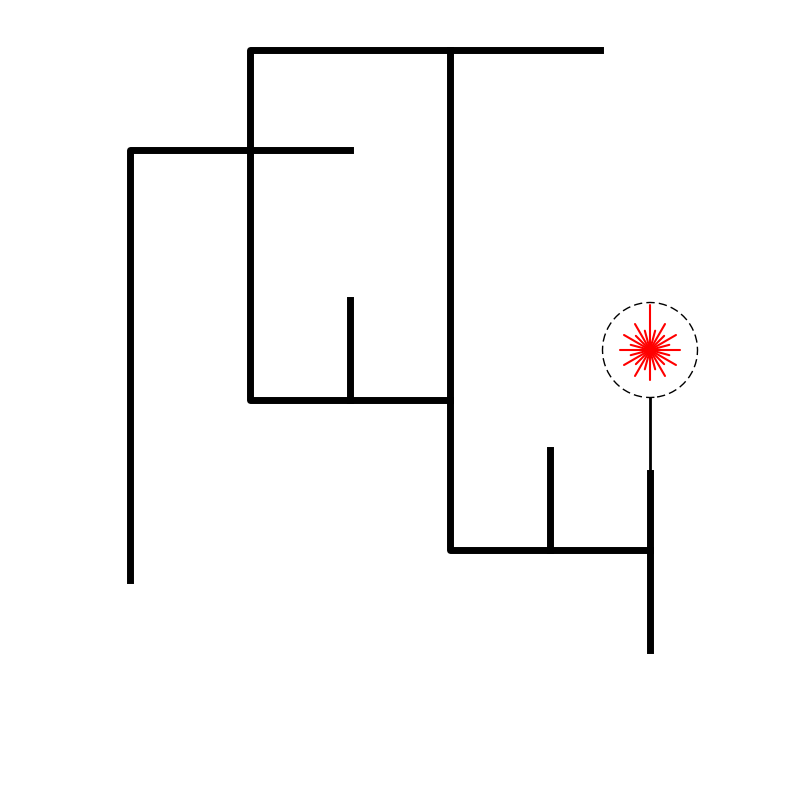
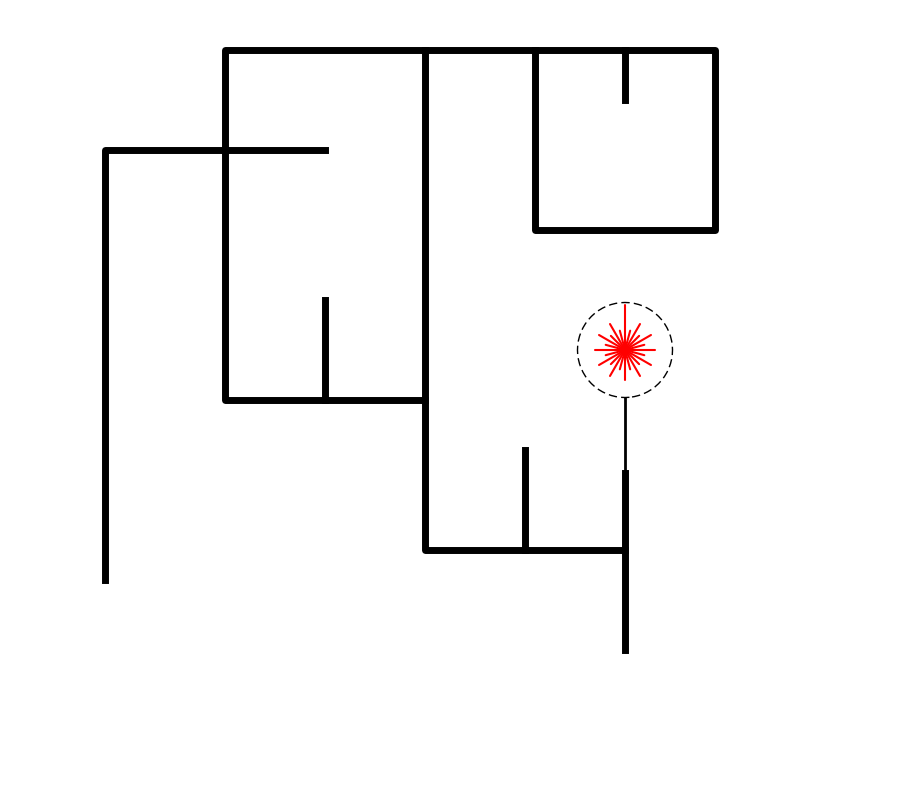
Add command buttons

diff --git a/software/gui/gui.py b/software/gui/gui.py
@@ -16,9 +16,12 @@ from build_gui_elements import (
 	GAUGE_A_X, GAUGE_A_Y,
 	TRAP_B_X, TRAP_B_Y,
 	GAUGE_B_X, GAUGE_B_Y,
+	GAUGE_C_X, GAUGE_C_Y,
 	TRAP_C_X, TRAP_C_Y,
 	VACUUM_X, VACUUM_Y,
 	REACTOR_X, REACTOR_Y,
+	TURBO_X, TURBO_Y,
+	SCROLL_X, SCROLL_Y,
 	)
 
 DEBUG = False
@@ -765,6 +768,7 @@ if __name__ == '__main__':
 	gauges = {name: Gauge(UI, name, P, x, y) for name, P, x, y in [
 		('Gauge_A', 'P1', GAUGE_A_X, GAUGE_A_Y),
 		('Gauge_B', 'P2', GAUGE_B_X, GAUGE_B_Y),
+		('Gauge_C', 'P3', GAUGE_C_X, GAUGE_C_Y),
 		]}
 
 	traps = {name: Trap(UI, name, TS, x, y, Tlimits = [22, 24, 26, 28, 30, 40], shape = shape) for name, TS, x, y, shape in [
@@ -782,6 +786,9 @@ if __name__ == '__main__':
 		('V6', TRAP_B_X, TRAP_A_Y-50, -45),
 		('V7', TRAP_C_X-50, TRAP_B_Y, -135),
 		('V8', TRAP_C_X, TRAP_B_Y+50, 0),
+		('V9', (TURBO_X + SCROLL_X)/2, SCROLL_Y, 90),
+		('V10', TURBO_X, (TURBO_Y + VACUUM_Y)//2, 135),
+		('V11', SCROLL_X, (SCROLL_Y + VACUUM_Y)//2, 45),
 		]}
 
 	reactor_cmd = {
@@ -821,6 +828,71 @@ if __name__ == '__main__':
 
 	IconWidget(UI, REACTOR_X, REACTOR_Y, icon = 'acid_130.png')
 
+	turbo_bg = IconWidget(UI, TURBO_X, TURBO_Y, icon = 'pump_white.png')
+	turbo_bg.active_area_type = 'circle'
+	turbo_bg.active_area_radius = 50
+	@turbo_bg.activate
+	def turbo_bg_activate(self):
+		self.parent.send(f'@pypl.V9.open()\r')
+		self.parent.send(f'@pypl.V10.open()\r')
+		self.parent.send(f'@pypl.V11.close()\r')
+
+	turbo_ok = IconWidget(UI, TURBO_X, TURBO_Y, icon = 'pump_green.png')
+	@turbo_ok.refresh
+	def turbo_ok_refresh(self):
+		if self.parent.state['V10'] and self.parent.state['V9'] and not self.parent.state['V11']:
+			self.sprite.opacity = 255
+		else:
+			self.sprite.opacity = 0
+
+	turbo_pb = IconWidget(UI, TURBO_X, TURBO_Y, icon = 'pump_red.png')
+	@turbo_pb.refresh
+	def turbo_ok_refresh(self):
+		if (
+			(self.parent.state['V10'] and not self.parent.state['V9'])
+			or
+			(self.parent.state['V10'] and self.parent.state['V11'])
+			):
+			self.sprite.opacity = 255
+		else:
+			self.sprite.opacity = 0
+	
+
+	
+
+	scroll_bg = IconWidget(UI, SCROLL_X, SCROLL_Y, icon = 'pump_white.png')
+	scroll_bg.active_area_type = 'circle'
+	scroll_bg.active_area_radius = 50
+	@scroll_bg.activate
+	def scroll_bg_activate(self):
+		self.parent.send(f'@pypl.V9.close()\r')
+		self.parent.send(f'@pypl.V10.close()\r')
+		self.parent.send(f'@pypl.V11.open()\r')
+
+	scroll_ok = IconWidget(UI, SCROLL_X, SCROLL_Y, icon = 'pump_yellow.png')
+	@scroll_ok.refresh
+	def scroll_ok_refresh(self):
+		if self.parent.state['V11'] and not self.parent.state['V10']:
+			self.sprite.opacity = 255
+		else:
+			self.sprite.opacity = 0
+
+	scroll_pb = IconWidget(UI, SCROLL_X, SCROLL_Y, icon = 'pump_red.png')
+	@scroll_pb.refresh
+	def scroll_ok_refresh(self):
+		if self.parent.state['V10'] and self.parent.state['V11']:
+			self.sprite.opacity = 255
+		else:
+			self.sprite.opacity = 0
+
+	TextWidget(UI, TURBO_X, TURBO_Y, font_name = 'Helvetica', font_size = 12, color = (0,0,0,255), label = 'Turbo\nPump', bold = True)
+	TextWidget(UI, SCROLL_X, SCROLL_Y, font_name = 'Helvetica', font_size = 12, color = (0,0,0,255), label = 'Scroll\nPump', bold = True)
+
+	Tacid = TextWidget(UI, REACTOR_X, REACTOR_Y+55, font_name = 'Helvetica', font_size = 12, color = (0,0,0,255), label = '', bold = True)
+	@Tacid.refresh
+	def Tacid_refresh(self):
+		self.label.text = '%.0f °C' % self.parent.state['T4']
+	
 	if DEBUG:
 		debug = TextWidget(UI, -500, 350, font_name = 'Helvetica', font_size = 12, color = (255,0,0,255), label = '')
 		@debug.refresh

diff --git a/software/gui/build_gui_elements.py b/software/gui/build_gui_elements.py
@@ -8,10 +8,8 @@ from numpy import random as nprandom
 
 DPI = 100
 
-INLET_CROSS_X = -150
+INLET_CROSS_X = -225
 INLET_CROSS_Y = 250
-VACUUM_X = INLET_CROSS_X + 350
-VACUUM_Y = INLET_CROSS_Y + 100
 REACTOR_X = INLET_CROSS_X - 120
 REACTOR_Y = -180
 TRAP_A_X = INLET_CROSS_X
@@ -26,6 +24,14 @@ GAUGE_B_X = (TRAP_B_X + TRAP_C_X)//2
 GAUGE_B_Y = TRAP_B_Y + 100
 CRDS_X = TRAP_C_X
 CRDS_Y = TRAP_C_Y + 300
+VACUUM_X = CRDS_X
+VACUUM_Y = INLET_CROSS_Y + 100
+TURBO_X = VACUUM_X - 90
+TURBO_Y = VACUUM_Y - 180
+SCROLL_X = VACUUM_X + 90
+SCROLL_Y = VACUUM_Y - 180
+GAUGE_C_X = VACUUM_X
+GAUGE_C_Y = VACUUM_Y - 50
 
 from matplotlib import rcParams
 
@@ -50,7 +56,7 @@ rcParams['grid.alpha'] = .15
 rcParams['savefig.dpi'] = DPI
 
 def bg_img(
-	figsize = (8, 8),
+	figsize = (9, 8),
 	):
 	
 	fig = figure(figsize = figsize)
@@ -71,7 +77,10 @@ def bg_img(
 	plot(X, Y, **tube_kwargs)
 
 	X, Y = zip(*[
-		(VACUUM_X, VACUUM_Y),
+		(TURBO_X, VACUUM_Y),
+		(TURBO_X, TURBO_Y),
+		(SCROLL_X, SCROLL_Y),
+		(SCROLL_X, VACUUM_Y),
 		(INLET_CROSS_X, VACUUM_Y),
 		(TRAP_A_X, TRAP_A_Y),
 		(TRAP_B_X, TRAP_A_Y),
@@ -81,6 +90,12 @@ def bg_img(
 	X, Y = zip(*[
 		(GAUGE_A_X, TRAP_A_Y),
 		(GAUGE_A_X, GAUGE_A_Y),
+		])
+	plot(X, Y, **tube_kwargs)
+
+	X, Y = zip(*[
+		(GAUGE_C_X, VACUUM_Y),
+		(GAUGE_C_X, GAUGE_C_Y),
 		])
 	plot(X, Y, **tube_kwargs)
 
@@ -494,8 +509,60 @@ def acidbath(
 	savefig(f'img/acid_{seed:03.0f}.png', dpi = DPI, facecolor = 'None')
 	close(fig)
 	
+def command(
+	name = 'command',
+	fw = 2,
+	fh = 1,
+	fc = (1,1,1,1),
+	ec = (0,0,0,1),
+	lw = 2,
+	label = '',
+	size = 14,
+	tc = (0,0,0,1),
+	weight = 'bold',
+	dx = 0,
+	dy = 0,
+	):
+	fig = figure(figsize = (fw, fh))
+	ax = axes((0, 0, 1, 1), frameon = False)
+
+	w, h = .8/2*fw, .3/2*fh
+	x = [-w, w, w, -w, -w]
+	y = [h, h, -h, -h, h]
+	xy = array([x, y]).T
+	ax.add_artist(
+		Polygon(xy,
+			ec = 'none',
+			fc = fc,
+			)
+		)
+	plot(x, y, '-', color = ec, lw = lw, solid_capstyle = 'round', solid_joinstyle = 'round')
+	text(dx, dy, label, va = 'center', ha = 'center', size = size, color = tc, weight = weight)
+	axis([-fw/2, fw/2, -fh/2, fh/2])
+	xticks([])
+	yticks([])
+	savefig(f'img/command_{name}.png', dpi = DPI, facecolor = 'None')
+	close(fig)
+
 
 if __name__ == '__main__':
+
+	for name, fc, ec, label, tc, dx, dy in [
+		('standby', (.5,.5,.5,1), (.25,.25,.25,1), 'STANDBY', (1,1,1,1), 0, -.025),
+		('transfer', (.5,.75,1,1), (.1,.15,.2,1), 'TRANSFER', None, 0, -.025),
+		('carbonate', (.25,1,.25,1), (0,.25,0,1), 'RUN CARB', None, 0, -.025),
+		('CO2', (.25,1,.25,1), (0,.25,0,1), 'RUN CO2', None, 0, -.025),
+		('stop', (2/3,0,0,1), (.25,0,0,1), 'STOP', (1,1,1,1), 0, -.025),
+		]:
+		command(
+			name = name,
+			fc = fc,
+			ec = ec,
+			label = label,
+			tc = ec if tc is None else tc,
+			dx = dx,
+			dy = dy,
+			)
 
 # 	for k in range(30):
 # 		acidbath(seed = k)
@@ -526,6 +593,7 @@ if __name__ == '__main__':
 			((.9,.75,1,1), 'magenta'),
 			((1,.9,.4,1), 'yellow'),
 			((.25,1,0,1), 'green'),
+			((1,0,0,1), 'red'),
 			]:
 		thermostat(fc = fc, name = f'thermostat_{name}')
 		gauge(fc = fc, name = f'gauge_{name}')

diff --git a/software/board/main.py b/software/board/main.py
@@ -127,8 +127,10 @@ class PyPL():
 
 
 		self.spi = pyb.SPI(2, mode = pyb.SPI.MASTER, baudrate = 10**7, phase = 1)
-		self.T1 = MAX31856(self.spi, pyb.Pin('X17', pyb.Pin.OUT))
-		self.T3 = MAX31856(self.spi, pyb.Pin('X6', pyb.Pin.OUT))
+		self.T1 = MAX31856(self.spi, pyb.Pin('X5', pyb.Pin.OUT))
+		self.T2 = MAX31856(self.spi, pyb.Pin('X6', pyb.Pin.OUT))
+		self.T3 = MAX31856(self.spi, pyb.Pin('X17', pyb.Pin.OUT))
+		self.T4 = MAX31856(self.spi, pyb.Pin('X18', pyb.Pin.OUT))
 
 		self.hPWM_1 = _PWM('Y3')
 		self.cPWM_1 = _PWM('Y4')
@@ -373,7 +375,7 @@ if __name__ == '__main__':
 
 	pyb.LED(2).on()
 	try:
-		pypl = PyPL(DEBUG = True)	
+		pypl = PyPL(DEBUG = False)	
 		pyb.LED(2).off()
 		pypl.start()
 	except Exception as e:
